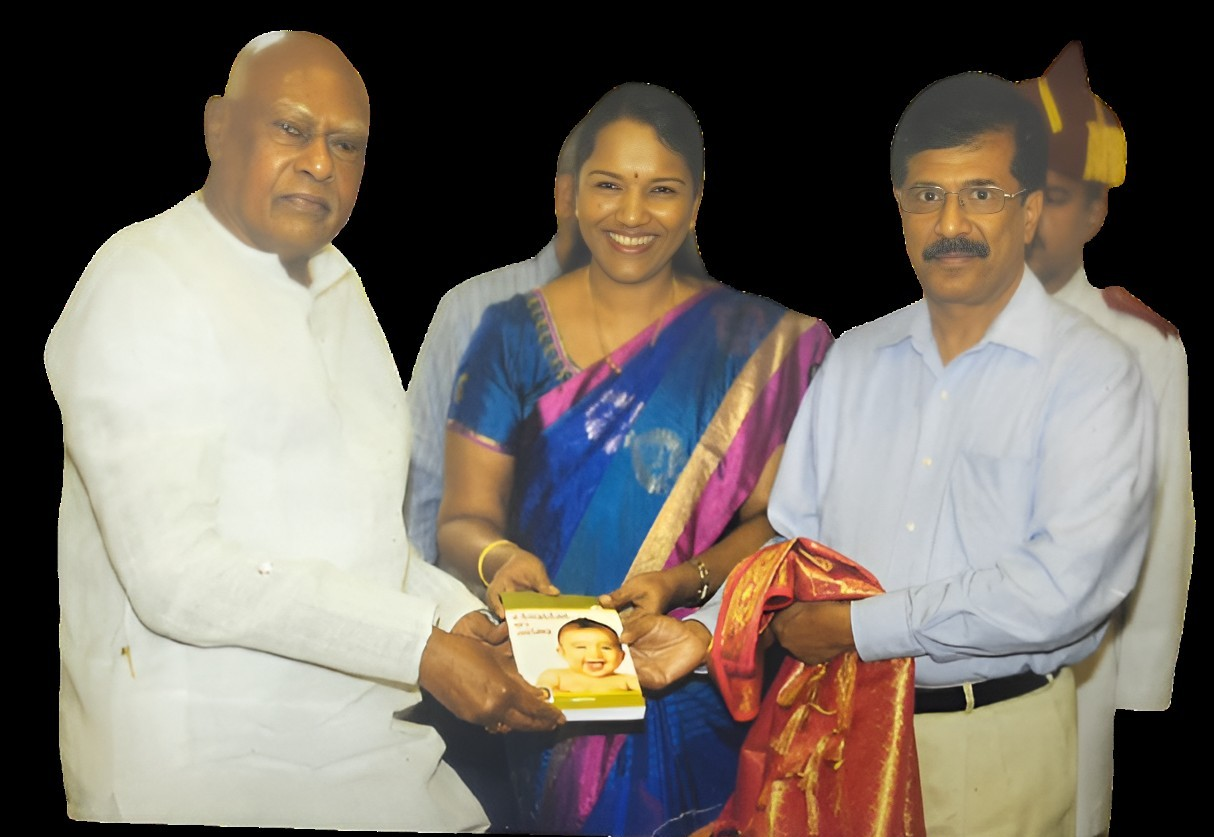
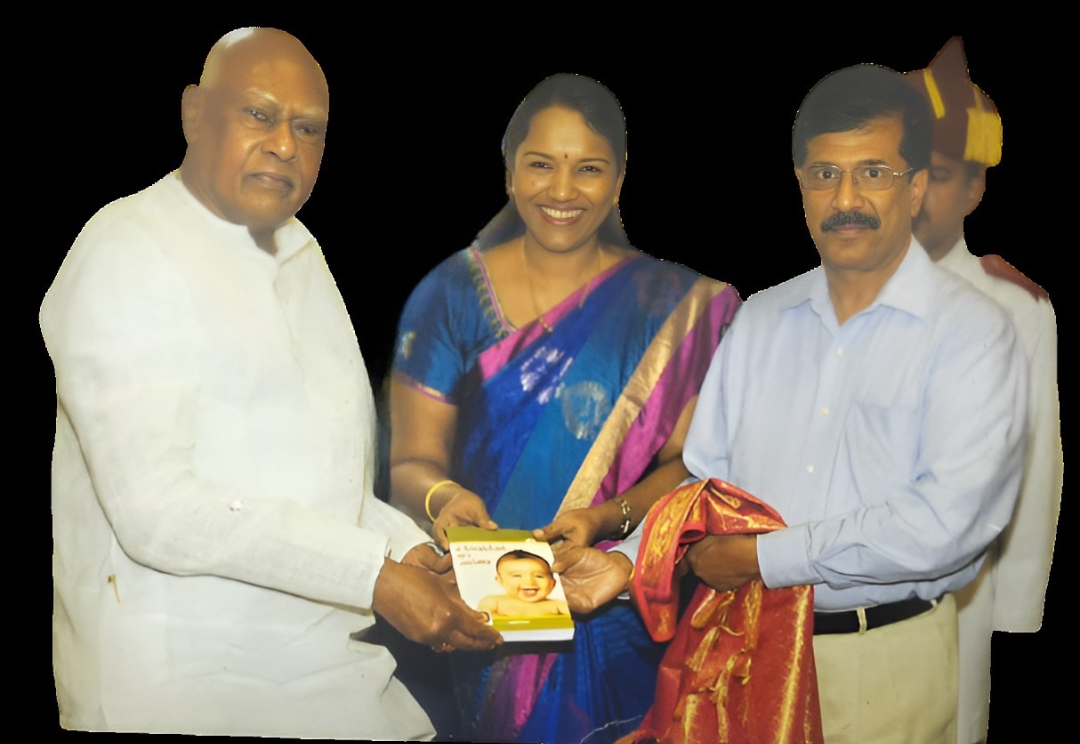
Update hospital website

Changed region(s): [[0.3056, 0.1546, 0.4889, 0.6801], [0.2139, 0.9892, 0.3972, 1.0], [0.4583, 0.8347, 0.5194, 0.8656]]

diff --git a/src/sections/AboutSection.tsx b/src/sections/AboutSection.tsx
@@ -14,20 +14,77 @@ import Container from "@/components/common/Container";
 import Section from "@/components/animations/Section";
 import { useLanguage } from "@/components/common/LanguageProvider";
 
+const aboutImages = [
+  "/images/about/about-1.jpg",
+  "/images/about/about-2.jpg",
+  "/images/about/about-3.jpg",
+  "/images/about/about-4.jpg",
+  "/images/about/about-5.jpg",
+  "/images/about/about-6.jpg",
+];
+
+function DiamondImage({
+  imageIndex,
+  altNumber,
+  priority = false,
+  imageSrc,
+}: {
+  imageIndex: number;
+  altNumber: number;
+  priority?: boolean;
+  imageSrc: string;
+}) {
+  return (
+    <div
+      className="
+        absolute
+        left-1/2
+        top-1/2
+        h-40
+        w-40
+        -translate-x-1/2
+        -translate-y-1/2
+        rotate-45
+        overflow-hidden
+        rounded-none
+        border-[6px]
+        border-white
+        bg-white
+        shadow-[0_16px_35px_rgba(15,23,42,0.14)]
+        transition-transform
+        duration-500
+        hover:scale-[1.025]
+
+        sm:h-[180px]
+        sm:w-[180px]
+
+        lg:h-[200px]
+        lg:w-[200px]
+      "
+    >
+      <div className="absolute inset-[-20%] -rotate-45">
+        <Image
+          key={`${imageIndex}-${altNumber}`}
+          src={imageSrc}
+          alt={`Image ${altNumber}`}
+          fill
+          priority={priority}
+          quality={75}
+          sizes="(max-width: 640px) 220px, (max-width: 1024px) 260px, 300px"
+          className="object-cover object-center"
+        />
+
+        <div className="pointer-events-none absolute inset-0 bg-gradient-to-t from-slate-950/15 via-transparent to-transparent" />
+      </div>
+    </div>
+  );
+}
+
 export default function AboutSection() {
   const [activeImage, setActiveImage] = useState(0);
   const [isPaused, setIsPaused] = useState(false);
 
   const { t } = useLanguage();
-
-  const aboutImages = [
-    "/images/about/about-1.jpg",
-    "/images/about/about-2.jpg",
-    "/images/about/about-3.jpg",
-    "/images/about/about-4.jpg",
-    "/images/about/about-5.jpg",
-    "/images/about/about-6.jpg",
-  ];
 
   /* ============================================================
      AUTO IMAGE ROTATION
@@ -41,7 +98,7 @@ export default function AboutSection() {
     }, 3000);
 
     return () => clearInterval(interval);
-  }, [isPaused, aboutImages.length]);
+  }, [isPaused]);
 
   const handleLearnMore = () => {
     document.getElementById("contact")?.scrollIntoView({
@@ -52,65 +109,6 @@ export default function AboutSection() {
 
   const getImageIndex = (position: number) => {
     return (activeImage + position) % aboutImages.length;
-  };
-
-  /* ============================================================
-     DIAMOND IMAGE COMPONENT
-  ============================================================ */
-
-  const DiamondImage = ({
-    imageIndex,
-    altNumber,
-    priority = false,
-  }: {
-    imageIndex: number;
-    altNumber: number;
-    priority?: boolean;
-  }) => {
-    return (
-      <div
-        className="
-          absolute
-          left-1/2
-          top-1/2
-          h-40
-          w-40
-          -translate-x-1/2
-          -translate-y-1/2
-          rotate-45
-          overflow-hidden
-          rounded-none
-          border-[6px]
-          border-white
-          bg-white
-          shadow-[0_16px_35px_rgba(15,23,42,0.14)]
-          transition-transform
-          duration-500
-          hover:scale-[1.025]
-
-          sm:h-[180px]
-          sm:w-[180px]
-
-          lg:h-[200px]
-          lg:w-[200px]
-        "
-      >
-        {/* Rotate image back to normal */}
-        <div className="absolute inset-[-20%] -rotate-45">
-          <Image
-            key={`${imageIndex}-${altNumber}`}
-            src={aboutImages[imageIndex]}
-            alt={`${t.about.imageAlt} ${altNumber}`}
-            fill
-            priority={priority}
-            quality={75}
-            sizes="(max-width: 640px) 220px, (max-width: 1024px) 260px, 300px"
-            className="object-cover object-center"         />
-
-          <div className="pointer-events-none absolute inset-0 bg-gradient-to-t from-slate-950/15 via-transparent to-transparent" />
-        </div>
-      </div>
-    );
   };
 
   return (
@@ -209,6 +207,7 @@ export default function AboutSection() {
                     imageIndex={getImageIndex(0)}
                     altNumber={1}
                     priority
+                    imageSrc={aboutImages[getImageIndex(0)]}
                   />
                 </div>
 
@@ -236,6 +235,7 @@ export default function AboutSection() {
                   <DiamondImage
                     imageIndex={getImageIndex(1)}
                     altNumber={2}
+                    imageSrc={aboutImages[getImageIndex(1)]}
                   />
                 </div>
 
@@ -263,6 +263,7 @@ export default function AboutSection() {
                   <DiamondImage
                     imageIndex={getImageIndex(2)}
                     altNumber={3}
+                    imageSrc={aboutImages[getImageIndex(2)]}
                   />
                 </div>
 
@@ -290,6 +291,7 @@ export default function AboutSection() {
                   <DiamondImage
                     imageIndex={getImageIndex(3)}
                     altNumber={4}
+                    imageSrc={aboutImages[getImageIndex(3)]}
                   />
                 </div>
               </div>

diff --git a/src/sections/WhyChooseUs.tsx b/src/sections/WhyChooseUs.tsx
@@ -151,9 +151,9 @@ const content: Record<
 
   ta: {
     badge: "ஏன் எங்களை தேர்வு செய்ய வேண்டும்",
-    title: "நோயாளிகள் ஏன் Iswarya Hospital-ஐ நம்புகிறார்கள்",
+    title: "நோயாளிகள் ஏன் ஐஸ்வர்யா மருத்துவமனை-ஐ நம்புகிறார்கள்",
     description:
-      "அக்கறை, நவீன வசதிகள் மற்றும் நோயாளி முதன்மை அணுகுமுறையுடன் சிறந்த சுகாதார சேவையை வழங்குவதில் நாங்கள் அர்ப்பணிப்புடன் செயல்படுகிறோம்.",
+      "அனுபவம் வாய்ந்த சிகிச்சை, நவீன வசதிகள் மற்றும் முதன்மை அணுகுமுறையுடன் கூடிய சிறந்த சுகாதார சேவையை வழங்குவதில் நாங்கள் அர்ப்பணிப்புடன் செயல்படுகிறோம்.",
     trustedTitle: "நம்பகமான பராமரிப்பு",
     trustedDesc: "நோயாளியை மையமாகக் கொண்ட சேவை",
     qualityTitle: "தரமான சுகாதாரம்",
@@ -162,12 +162,12 @@ const content: Record<
     compassionDesc: "ஒவ்வொரு நோயாளிக்கும் எங்களின் ஆதரவு",
     bottomTitle: "நீங்கள் நம்பக்கூடிய சுகாதார சேவை",
     bottomDescription:
-      "ஆலோசனை முதல் குணமடைதல் வரை, உங்கள் சிகிச்சைப் பயணத்தின் ஒவ்வொரு கட்டமும் பாதுகாப்பாகவும் வசதியாகவும் அமைய எங்கள் குழு அர்ப்பணிப்புடன் செயல்படுகிறது.",
+      "ஆலோசனை முதல் குணமடைதல் வரை, உங்கள் மருத்துவ பயணத்தின் ஒவ்வொரு சிகிச்சையும் பாதுகாப்பாகவும் வசதியாகவும் அமைய எங்கள் குழு முழு அர்ப்பணிப்புடன் செயல்படுகிறது.",
   },
 
   ml: {
     badge: "എന്തുകൊണ്ട് ഞങ്ങളെ തിരഞ്ഞെടുക്കണം",
-    title: "രോഗികൾ Iswarya Hospital-നെ വിശ്വസിക്കുന്നത് എന്തുകൊണ്ട്",
+    title: "രോഗികൾ ഐശ്വര്യ ഹോസ്പിറ്റൽ -നെ വിശ്വസിക്കുന്നത് എന്തുകൊണ്ട്",
     description:
       "കരുതലും ആധുനിക സൗകര്യങ്ങളും രോഗിയെ മുൻനിർത്തിയ സമീപനവും ഉപയോഗിച്ച് മികച്ച ആരോഗ്യപരിചരണം നൽകാൻ ഞങ്ങൾ പ്രതിജ്ഞാബദ്ധരാണ്.",
     trustedTitle: "വിശ്വസനീയമായ പരിചരണം",
@@ -183,7 +183,7 @@ const content: Record<
 
   te: {
     badge: "మమ్మల్ని ఎందుకు ఎంచుకోవాలి",
-    title: "రోగులు Iswarya Hospitalను ఎందుకు నమ్ముతారు",
+    title: "రోగులు ఐశ్వర్య మరుత్తువమనైను ఎందుకు నమ్ముతారు",
     description:
       "ఆప్యాయత, ఆధునిక సదుపాయాలు మరియు రోగి-కేంద్రిత విధానంతో అత్యుత్తమ వైద్య సేవలను అందించడానికి మేము కట్టుబడి ఉన్నాము.",
     trustedTitle: "నమ్మకమైన సంరక్షణ",
@@ -199,7 +199,7 @@ const content: Record<
 
   hi: {
     badge: "हमें क्यों चुनें",
-    title: "मरीज Iswarya Hospital पर भरोसा क्यों करते हैं",
+    title: "मरीज ऐश्वर्या हॉस्पिटल पर भरोसा क्यों करते हैं",
     description:
       "करुणा, आधुनिक सुविधाओं और रोगी-केंद्रित दृष्टिकोण के साथ उत्कृष्ट स्वास्थ्य सेवा प्रदान करने के लिए हम प्रतिबद्ध हैं।",
     trustedTitle: "विश्वसनीय देखभाल",

diff --git a/src/sections/ContactSection.tsx b/src/sections/ContactSection.tsx
@@ -44,7 +44,7 @@ emergencyDescription:
 "Our emergency department is available around the clock.",
 available247: "24 × 7 Available",
 findUs: "FIND US",
-visitHospital: "Visit Iswarya Fertility Centre",
+visitHospital: "Visit Iswarya Hospital - Palani",
 mapAddress:
 "72-B, Dindigul – Palani Main Road, Laxmipuram, Palani",
 getDirections: "Get Directions",
@@ -56,7 +56,7 @@ ta: {
   description:
     "உங்கள் மருத்துவ தேவைகளுக்கு உதவ நாங்கள் எப்போதும் தயாராக இருக்கிறோம்.",
   visitUs: "எங்களை சந்திக்கவும்",
-  addressTitle: "ஐஸ்வர்யா மருத்துவமனை",
+  addressTitle: "ஐஸ்வர்யா மருத்துவமனை - பழனி",
   address: [
     "72-B, திண்டுக்கல் – பழனி நெடுஞ்சாலை,",
     "லட்சுமிபுரம்,",
@@ -85,7 +85,7 @@ ml: {
   description:
     "നിങ്ങളുടെ ആരോഗ്യ ആവശ്യങ്ങളിൽ നിങ്ങളെ സഹായിക്കാൻ ഞങ്ങൾ എപ്പോഴും തയ്യാറാണ്.",
   visitUs: "ഞങ്ങളെ സന്ദർശിക്കുക",
-  addressTitle: "ഐശ്വര്യ മരുത്തുവമനൈ",
+  addressTitle: "ഐശ്വര്യ മരുത്തുവമനൈ - പഴനി",
   address: [
     "72-B, ദിണ്ടിഗൽ – പഴനി പ്രധാന റോഡ്,",
     "ലക്ഷ്മിപുരം,",
@@ -114,7 +114,7 @@ te: {
   description:
     "మీ ఆరోగ్య అవసరాలకు సహాయం చేయడానికి మేము ఎల్లప్పుడూ సిద్ధంగా ఉన్నాము.",
   visitUs: "మమ్మల్ని సందర్శించండి",
-  addressTitle: "ఐశ్వర్య మరుత్తువమనై",
+  addressTitle: "ఐశ్వర్య మరుత్తువమనై - పలని",
   address: [
     "72-B, దిండిగల్ – పలని ప్రధాన రహదారి,",
     "లక్ష్మీపురం,",
@@ -144,7 +144,7 @@ hi: {
   description:
     "आपकी स्वास्थ्य संबंधी आवश्यकताओं में सहायता करने के लिए हम हमेशा तैयार हैं।",
   visitUs: "हमसे मिलें",
-  addressTitle: "ऐश्वर्या मरुत्तुवमनै",
+  addressTitle: "ऐश्वर्या मरुत्तुवमनै - पलानी",
   address: [
     "72-B, डिंडीगुल – पलानी मुख्य मार्ग,",
     "लक्ष्मीपुरम,",
@@ -310,7 +310,7 @@ return ( <section
             </div>
 
             <a
-              href="https://maps.google.com/?q=ISWARYA HOSPITAL+Hospital,+Dindigul+Road,+Laxmipuram,+Palani,+Tamil+Nadu+624601"
+              href="https://maps.google.com/?q=KV+Hospital,+Dindigul+Road,+Laxmipuram,+Palani,+Tamil+Nadu+624601"
               target="_blank"
               rel="noopener noreferrer"
               className="inline-flex w-fit items-center gap-2 rounded-xl bg-blue-700 px-6 py-3 font-semibold text-white shadow-md transition-all duration-300 hover:-translate-y-0.5 hover:bg-blue-800 hover:shadow-lg"

diff --git a/src/constants/translations.ts b/src/constants/translations.ts
@@ -689,7 +689,7 @@ export const translations = {
 
       modernFacilities: "நவீன மருத்துவ வசதிகள்",
       modernFacilitiesDescription:
-        "தரமான நோயாளி பராமரிப்பிற்காக வடிவமைக்கப்பட்ட நவீன மருத்துவ வசதிகள் மற்றும் மேம்பட்ட சுகாதார உள்கட்டமைப்பு.",
+        "தரமான சிகிச்சை பராமரிப்பிற்காக வடிவமைக்கப்பட்ட நவீன மருத்துவ வசதிகள் மற்றும் மேம்பட்ட சுகாதார உள்கட்டமைப்பு.",
 
       emergencyCare: "24×7 அவசர சிகிச்சை",
       emergencyCareDescription:
@@ -720,8 +720,8 @@ export const translations = {
     },
 
     testimonials: {
-      subtitle: "நோயாளிகளின் கருத்துகள்",
-      title: "எங்கள் நோயாளிகள் என்ன சொல்கிறார்கள்",
+      subtitle: "கருத்து கணிப்பு",
+      title: "எங்கள் புறநோயாளிகளின் அனுபவங்கள்",
       description:
         "ஐஸ்வர்யா மருத்துவமனையில் மருத்துவ சேவை பெற்ற எங்கள் நம்பிக்கைக்குரிய நோயாளிகளின் உண்மையான அனுபவங்கள்.",
 
@@ -765,8 +765,8 @@ export const translations = {
     },
 
     faqs: {
-      subtitle: "அடிக்கடி கேட்கப்படும் கேள்விகள்",
-      title: "அடிக்கடி கேட்கப்படும் கேள்விகள்",
+      subtitle: "பொதுவாக கேட்கப்படும் கேள்விகள் / பதில்கள்",
+      title: "பொதுவாக கேட்கப்படும் கேள்விகள்",
       description:
         "ஐஸ்வர்யா மருத்துவமனை குறித்து பொதுவாக கேட்கப்படும் கேள்விகளுக்கான பதில்களை இங்கே காணலாம்.",
 

diff --git a/src/sections/GallerySection.tsx b/src/sections/GallerySection.tsx
@@ -102,9 +102,9 @@ const sectionText: Record<
   },
 
   ta: {
-    eyebrow: "எங்கள் புகைப்படத் தொகுப்பு",
+    eyebrow: "சிறப்புப் பார்வை",
     headingFirst: "எங்கள்",
-    headingHighlight: "புகைப்படத் தொகுப்பைப் பாருங்கள்",
+    headingHighlight: "புகைப்படத் தொகுப்பு",
     description:
       "எங்கள் மருத்துவமனை சூழல், பணியாளர்கள், நிகழ்வுகள் மற்றும் நினைவில் நிற்கும் தருணங்களின் ஒரு பார்வை.",
     hospital: "ஐஸ்வர்யா மருத்துவமனை",
@@ -449,7 +449,7 @@ export default function GallerySection() {
                 {text.eyebrow}
               </p>
 
-              <h2 className="text-4xl font-extrabold tracking-tight text-slate-900 md:text-5xl">
+              <h2 className="text-4xl font-extrabold tracking-tight text-slate-900 md:text-3xl">
                 {text.headingFirst}{" "}
                 <span className="text-blue-600">
                   {text.headingHighlight}

diff --git a/src/constants/testimonials.ts b/src/constants/testimonials.ts
@@ -140,19 +140,19 @@ export const testimonials: Testimonial[] = [
     id: 5,
 
     name: {
-      en: "Eswar Sandy",
-      ta: "ஈஸ்வர் சாண்டி",
-      ml: "എസ്വര് സാന്ദി",
-      te: "ఎస్వర్ సాండి",
-      hi: "एस्वर शांति",
+      en: "Murugan",
+      ta: "மூருகன்",
+      ml: "മൂരുഗൻ",
+      te: "మూరుగన్",
+      hi: "मूरुगन",
     },
 
     location: {
-      en: "Dharapuram",
-      ta: "தாராபுரம்",
-      ml: "ധാരാപുരം",
-      te: "ధారాపురం",
-      hi: "धारापुरम",
+      en: "Adivaram",
+      ta: "அடிவாரம்",
+      ml: "അടിവാരം",
+      te: "ఆదివారం",
+      hi: "आदिवरम",
     },
 
     review: {

diff --git a/src/sections/FeedbackVideosSection.tsx b/src/sections/FeedbackVideosSection.tsx
@@ -82,7 +82,7 @@ const content = {
     centerTitle: "உங்கள் நம்பிக்கை",
     centerHighlight: "எங்கள் பலம்",
     centerText:
-      "ஒவ்வொரு நோயாளியின் பயணமும் அன்பான மற்றும் நம்பகமான மருத்துவ சேவையை வழங்க எங்களை ஊக்குவிக்கிறது.",
+      "ஒவ்வொரு நோயாளியின் பயணமும் நம்பகமான மருத்துவ சேவையை வழங்க எங்களை ஊக்குவிக்கிறது.",
 
     clickToWatch: "பார்க்க கிளிக் செய்யவும்",
   },

diff --git a/src/components/common/GoogleMap.tsx b/src/components/common/GoogleMap.tsx
@@ -3,7 +3,7 @@ export default function GoogleMap() {
     <div className="overflow-hidden rounded-3xl shadow-xl">
       <iframe
         title="Iswarya Hospital Location"
-        src="https://www.google.com/maps?q=ISWARYA HOSPITAL+Hospital,+Dindigul+Road,+Laxmipuram,+Palani,+Tamil+Nadu+624601&output=embed"
+        src="https://www.google.com/maps/embed?pb=!1m18!1m12!1m3!1d3923.6577124019004!2d77.52208737709118!3d10.448712565148824!2m3!1f0!2f0!3f0!3m2!1i1024!2i768!4f13.1!3m3!1m2!1s0x3ba9de64554a1361%3A0x25be8197119868a2!2sKV%20Hospital!5e0!3m2!1sen!2sin!4v1788931709943!5m2!1sen!2sin"
         width="100%"
         height="500"
         loading="lazy"
